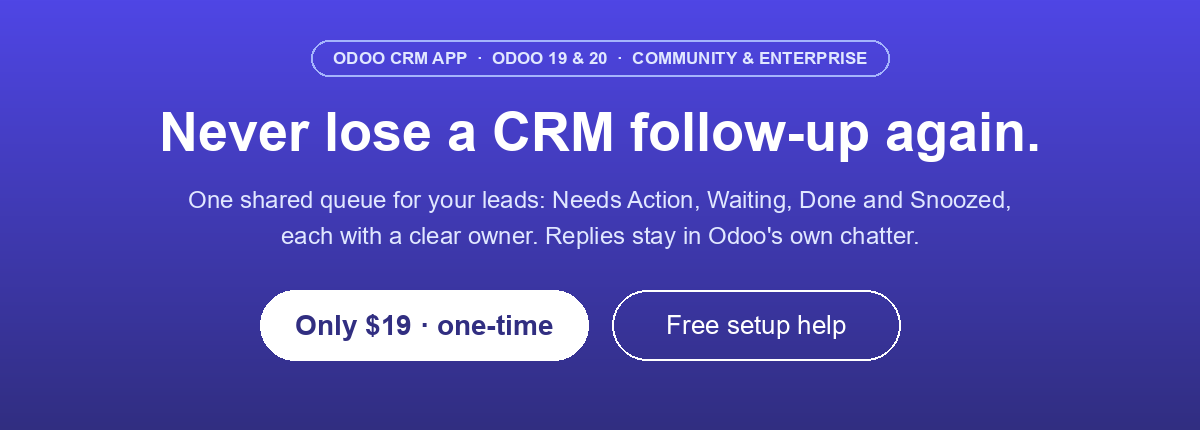
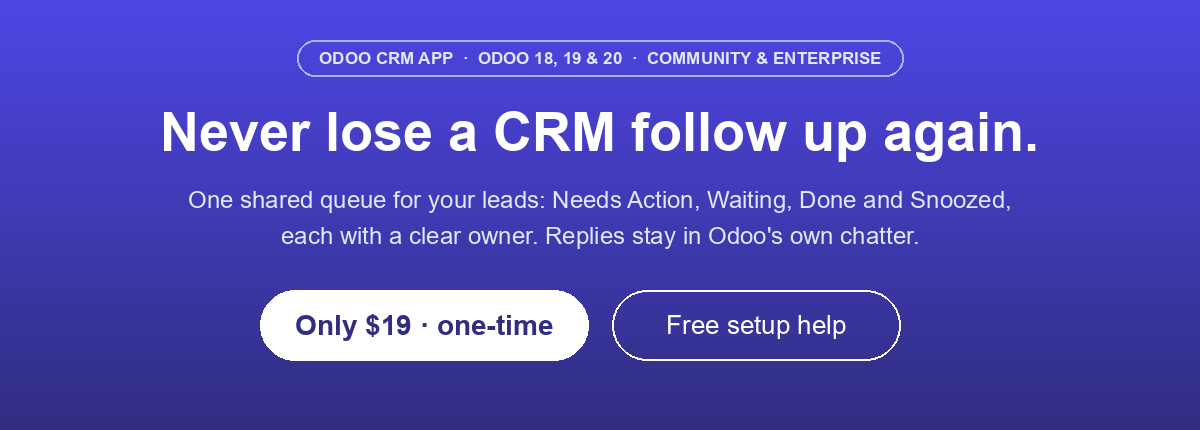
Add Odoo 18.0 version of CRM Follow Up Inbox
Port 19.0 to Odoo 18. Only two files differ: list domains with
odoo.osv.expression (no odoo.fields.Domain in 18), and an
ir.module.category + users for the product group (no
res.groups.privilege in 18). JS, templates and tests are unchanged:
31/31 tests and the 13-step browser smoke pass in Chrome and Firefox.

Store pages and hero image now say Odoo 18, 19 & 20. seed_demo.py and
benchmark.py accept both group_ids (19+) and groups_id (18).

Changed region(s): [[0.37, 0.2721, 0.8633, 0.3628], [0.2467, 0.0907, 0.74, 0.1814], [0.1233, 0.2721, 0.3392, 0.3628]]

diff --git a/sd_smart_chatter_inbox/static/description/index.html b/sd_smart_chatter_inbox/static/description/index.html
@@ -15,7 +15,7 @@
 <!-- ============ TRUST STRIP ============ -->
 <section class="oe_container" style="padding: 18px 12px;">
     <p style="text-align: center; color: #374151; font-size: 15px; margin: 0;">
-        <span style="display: inline-block; margin: 6px 14px;"><b style="color: #4f46e5;">&#10003;</b> Odoo 19 &amp; 20</span>
+        <span style="display: inline-block; margin: 6px 14px;"><b style="color: #4f46e5;">&#10003;</b> Odoo 18, 19 &amp; 20</span>
         <span style="display: inline-block; margin: 6px 14px;"><b style="color: #4f46e5;">&#10003;</b> Community &amp; Enterprise</span>
         <span style="display: inline-block; margin: 6px 14px;"><b style="color: #4f46e5;">&#10003;</b> Odoo.sh &amp; self-hosted</span>
         <span style="display: inline-block; margin: 6px 14px;"><b style="color: #4f46e5;">&#10003;</b> Multi-company</span>
@@ -213,7 +213,7 @@
 <!-- ============ ALSO KNOWN AS ============ -->
 <section class="oe_container" style="padding: 32px 12px 0;">
     <div style="max-width: 880px; margin: 0 auto; border: 1px dashed #c7d2fe; border-radius: 12px; padding: 16px 18px;">
-        <p style="color: #4b5563; font-size: 15px; line-height: 1.7; margin: 0;"><b style="color: #312e81;">Looking for something else by name?</b> Teams use this app as a <b>sales follow up tracker</b>, <b>lead follow up reminder</b>, <b>CRM to-do list</b>, <b>shared sales inbox</b>, <b>lead snooze</b>, <b>follow up management</b> and <b>CRM activity queue</b> for Odoo 19 and Odoo 20, Community and Enterprise.</p>
+        <p style="color: #4b5563; font-size: 15px; line-height: 1.7; margin: 0;"><b style="color: #312e81;">Looking for something else by name?</b> Teams use this app as a <b>sales follow up tracker</b>, <b>lead follow up reminder</b>, <b>CRM to-do list</b>, <b>shared sales inbox</b>, <b>lead snooze</b>, <b>follow up management</b> and <b>CRM activity queue</b> for Odoo 18, 19 and 20, Community and Enterprise.</p>
     </div>
 </section>
 
@@ -235,7 +235,7 @@
         </div>
         <div style="border: 1px solid #e5e7eb; border-radius: 12px; padding: 16px 18px; margin-bottom: 10px;">
             <p style="font-weight: 700; color: #312e81; font-size: 16px; margin: 0 0 6px;">Does it work on Odoo Online?</p>
-            <p style="color: #4b5563; font-size: 15px; line-height: 1.6; margin: 0;">Odoo Online (SaaS) cannot install third-party apps. It works on Odoo.sh and on any self-hosted Odoo 19 or 20, Community or Enterprise.</p>
+            <p style="color: #4b5563; font-size: 15px; line-height: 1.6; margin: 0;">Odoo Online (SaaS) cannot install third-party apps. It works on Odoo.sh and on any self-hosted Odoo 18, 19 or 20, Community or Enterprise.</p>
         </div>
         <div style="border: 1px solid #e5e7eb; border-radius: 12px; padding: 16px 18px; margin-bottom: 10px;">
             <p style="font-weight: 700; color: #312e81; font-size: 16px; margin: 0 0 6px;">Will it slow down CRM?</p>
